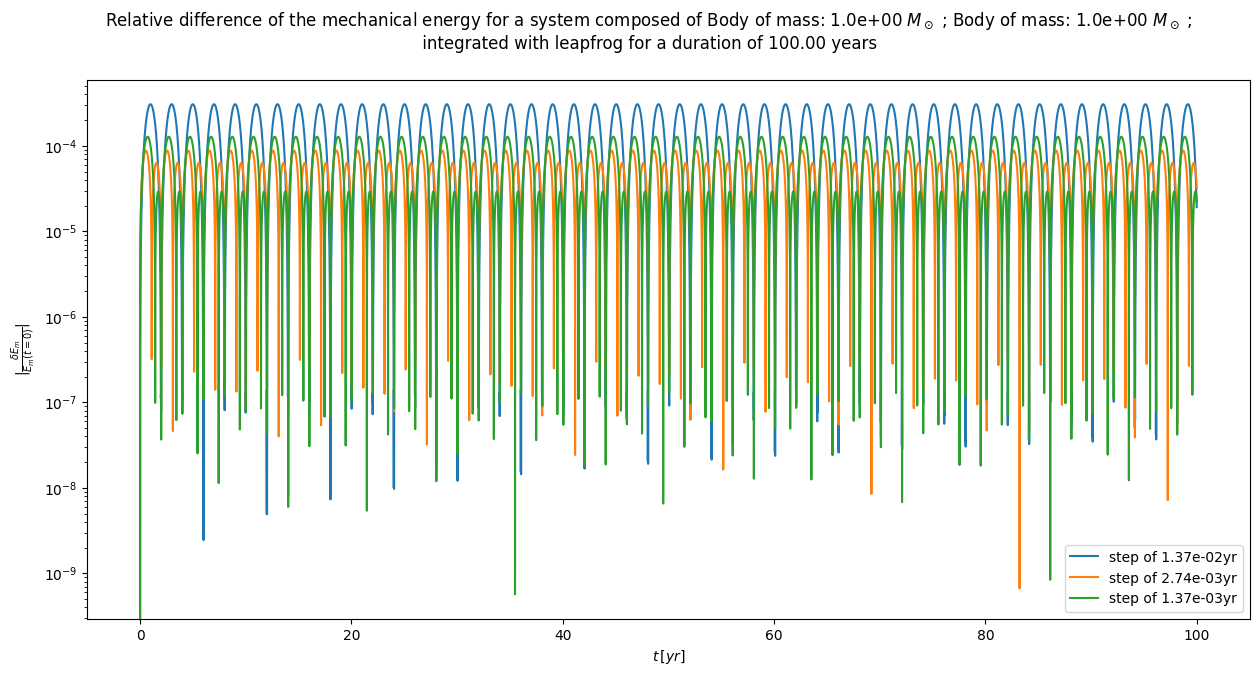
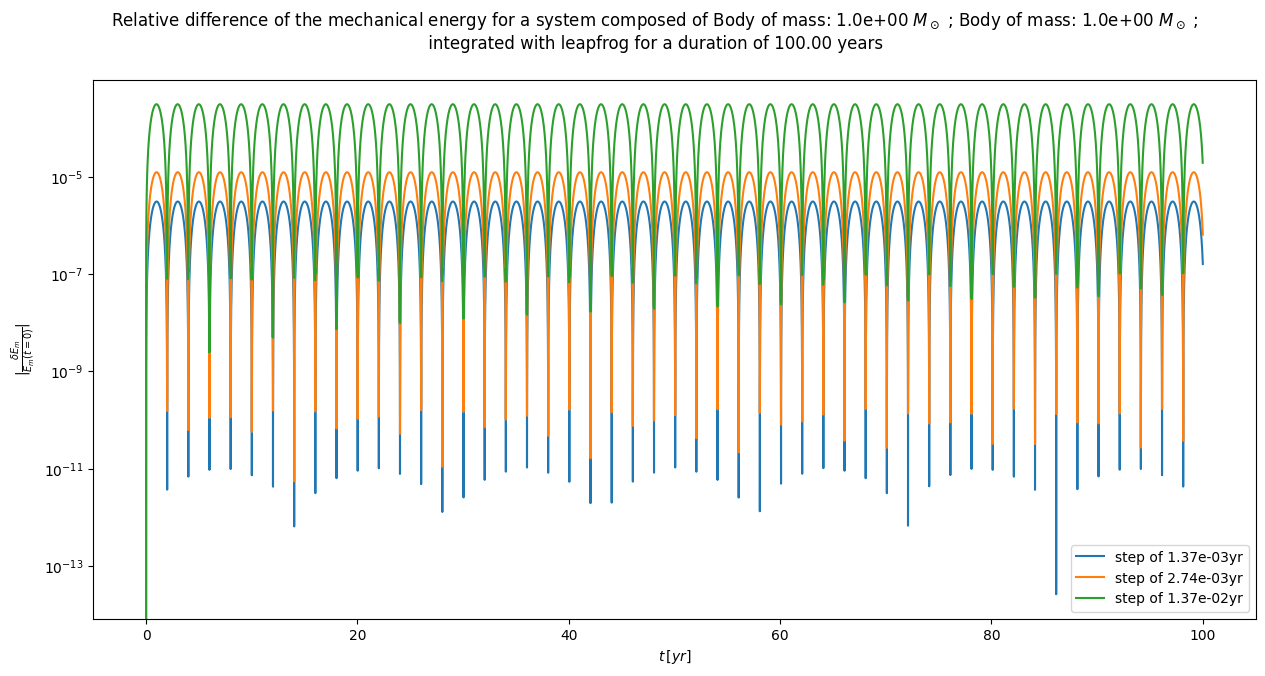
correct computation of center of mass velocity

diff --git a/main.py b/main.py
@@ -16,33 +16,33 @@ def main():
     e = np.array([0., 0., 1./4.])   # Eccentricity
     psi = np.array([0., 0., 0.])*np.pi/180.    # Inclination of the orbital plane in degrees
 
-    x1 = np.array([0., -1., 0.])*a[0]
-    x2 = np.array([0., 1., 0.])*a[1]
-    x3 = np.array([np.cos(psi[2]), 0., np.sin(psi[2])])*a[2]
+    x1 = np.array([0., -1., 0.])*a[0]*(1.+e[0])
+    x2 = np.array([0., 1., 0.])*a[1]*(1.+e[1])
+    x3 = np.array([np.cos(psi[2]), 0., np.sin(psi[2])])*a[2]*(1.+e[2])
     q = np.array([x1, x2, x3])
 
-    v1 = np.array([np.sqrt(Ga*m[1]**2/((m[0]+m[1])*np.sqrt(np.sum((q[0]-q[1])**2)))), 0., 0.])
-    v2 = np.array([-np.sqrt(Ga*m[0]**2/((m[0]+m[1])*np.sqrt(np.sum((q[0]-q[1])**2)))), 0., 0.])
+    v1 = np.array([np.sqrt(Ga*m[0]*m[1]/((m[0]+m[1])*np.sqrt(np.sum((q[0]-q[1])**2)))), 0., 0.])
+    v2 = np.array([-np.sqrt(Ga*m[0]*m[1]/((m[0]+m[1])*np.sqrt(np.sum((q[0]-q[1])**2)))), 0., 0.])
     v3 = np.array([0., np.sqrt(Ga*(m[0]+m[1])*(2./np.sqrt(np.sum(q[2]**2))-1./a[2])), 0.])
     v = np.array([v1, v2, v3])
 
     #integration parameters
     duration, step = 100*yr/yr, np.array([1./(365.25*2.), 1./(365.25*1.), 5./(365.25*1.)])*yr/yr #integration time and step in years
-    step = np.sort(step)[::-1]
+    step = np.sort(step)
     integrator = "leapfrog"
-    n_bodies = 2
-    display = True
-    savename = "{0:d}bodies_{1:s}".format(n_bodies, integrator)
+    n_bodies = 3
+    display = False
+    savename = "{0:d}bodies_mass_{1:s}".format(n_bodies, integrator)
 
     #simulation start
-    bodylist = []
-    for i in range(n_bodies):
-        bodylist.append(Body(m[i], q[i], v[i]))
-    bin_syst = System(bodylist[0:2])
-    dyn_syst = System(bodylist, main=True)
-
     E, L = [], []
     for i,step0 in enumerate(step):
+        bodylist = []
+        for j in range(n_bodies):
+            bodylist.append(Body(m[j], q[j], v[j]))
+        bin_syst = System(bodylist[0:2])
+        dyn_syst = System(bodylist, main=True)
+
         if i != 0:
             display = False
         if integrator.lower() in ['leapfrog', 'frogleap', 'frog']:

diff --git a/lib/objects.py b/lib/objects.py
@@ -101,7 +101,7 @@ class System(Body):
     def COMV(self): #return center of mass velocity in cartesian np_array
         coord = np.zeros(3)
         for body in self.bodylist:
-            coord = coord + body.v
+            coord = coord + body.m*body.v
         coord = coord/self.M
         return coord
 
@@ -113,25 +113,15 @@ class System(Body):
     @property
     def LCOM(self): #return angular momentum of the center of mass
         LCOM = np.zeros(3)
-        dr = np.zeros(3)
-        dv = np.zeros(3)
-        for body in self.bodylist:
-            for otherbody in self.bodylist:
-                if body != otherbody:
-                    dr = body.q-otherbody.q
-                    dv = body.v-otherbody.v
+        dr = self.bodylist[0].m/self.mu*self.bodylist[0].q
+        dv = self.bodylist[0].m/self.mu*self.bodylist[0].v
         LCOM = self.mu*np.cross(dr,dv)
         return LCOM
 
     @property
     def ECOM(self): #return mechanical energy of the center of mass
-        dr = np.zeros(3)
-        dv = np.zeros(3)
-        for body in self.bodylist:
-            for otherbody in self.bodylist:
-                if body != otherbody:
-                    dr = body.q-otherbody.q
-                    dv = body.v-otherbody.v
+        dr = self.bodylist[0].m/self.mu*self.bodylist[0].q
+        dv = self.bodylist[0].m/self.mu*self.bodylist[0].v
         ECOM = self.mu/2.*np.linalg.norm(dv)**2 - Ga*self.M*self.mu/np.linalg.norm(dr)
         return ECOM
 
